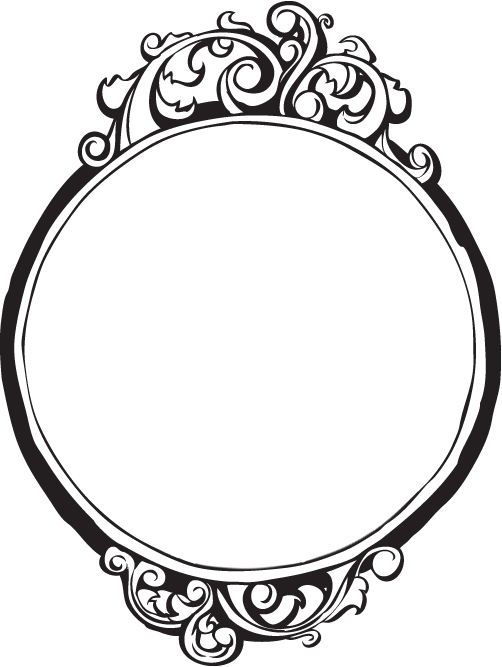
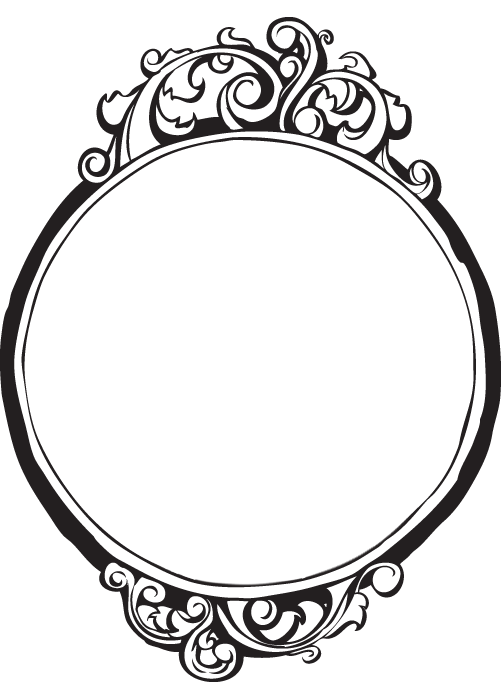
ready to start javascriptssss

Changed region(s): [[0.0, 0.0, 1.0, 0.9895]]

diff --git a/app/assets/stylesheets/style.css b/app/assets/stylesheets/style.css
@@ -21,7 +21,7 @@ body {
 #top_hat {
 	z-index:1;
 	position:absolute;
-	top:67px;
+	top:83px;
 }
 
 #senator_eduard {
@@ -33,13 +33,15 @@ body {
 
 
 
+ul.slideshow {
+	text-align:center;
+}
 
 #slide1 {
 	width:333px;
 	height:600px;
 	position:absolute;
-	left:502px;
-	background-color:red;
+	left:520px;
 }
 
 #next1 {
@@ -48,13 +50,11 @@ body {
 	left:200px;
 }
 
-
 #slide2 {
 	width:333px;
 	height:600px;
 	position:absolute;
-	left:502px;
-	background-color:green;
+	left:520px;
 }
 
 #prev2 {
@@ -67,4 +67,36 @@ body {
 	position:absolute;
 	top:530px;
 	left:200px;
+}
+
+#slide3 {
+	width:333px;
+	height:600px;
+	position:absolute;
+	left:520px;
+}
+
+#prev3 {
+	position:absolute;
+	top:530px;
+	left:35px;
+}
+
+#next3 {
+	position:absolute;
+	top:530px;
+	left:200px;
+}
+
+#slide4 {
+	width:333px;
+	height:600px;
+	position:absolute;
+	left:520px;
+}
+
+#prev4 {
+	position:absolute;
+	top:530px;
+	left:35px;
 }

diff --git a/app/assets/javascripts/slides.js b/app/assets/javascripts/slides.js
@@ -3,7 +3,7 @@ $(document).ready(function(){
 	$('#slide2').hide();
 	$('#slide3').hide();
 	$('#slide4').hide();
-
+	
 	
 	
 	$('#next1').click(function(){
@@ -37,4 +37,5 @@ $(document).ready(function(){
 		$('#slide4').hide("slide", { direction: "right" }, 1000);
 	});
 	
+
 });
